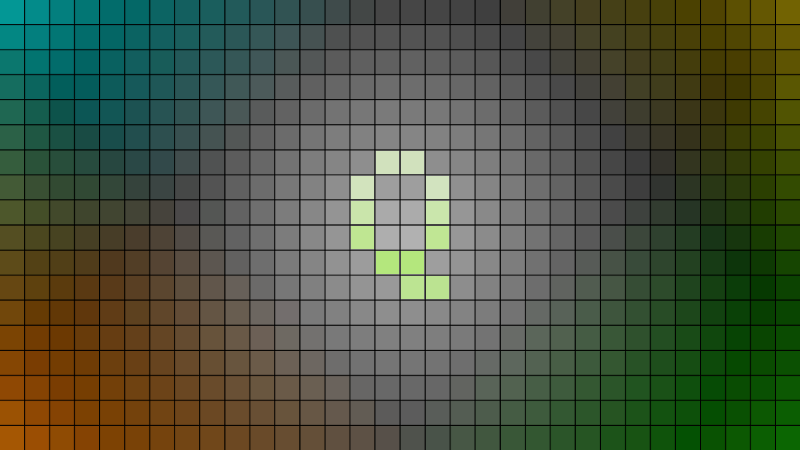
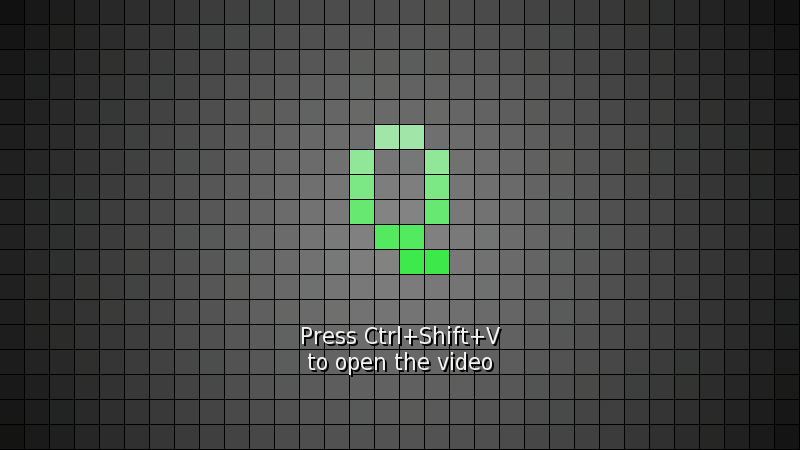
added toolbox undocking/docking and workspace centering; changelog for v0.2.0 updated
git-svn-id: svn://svn.code.sf.net/p/qgifer/code/trunk@47 8bb6e544-dc85-452e-9350-54fadf7a98b7

diff --git a/src/mainwindow.cpp b/src/mainwindow.cpp
@@ -23,6 +23,7 @@
 #include <QXmlStreamReader>
 #include <QFile>
 #include <QTextStream>
+#include <QDesktopWidget>
 #include "mainwindow.h"
 #include "objectwidget.h"
 
@@ -96,6 +97,7 @@ MainWindow::MainWindow()
      connect(player, SIGNAL(frameChanged(long)), this, SLOT(frameChanged(long)));
 
      connect(zoomSlider, SIGNAL(valueChanged(int)), this, SLOT(zoomChanged(int)));
+     connect(zoomSlider, SIGNAL(sliderReleased()), player, SLOT(centerWorkspace()));
      connect(ratioBox, SIGNAL(stateChanged(int)), this, SLOT(ratioChanged(int)));
      connect(smoothBox, SIGNAL(stateChanged(int)), this, SLOT(smoothChanged(int)));
      connect(marginBox, SIGNAL(stateChanged(int)), this, SLOT(marginBoxChanged(int)));
@@ -118,6 +120,15 @@ MainWindow::MainWindow()
      connect(player->getWorkspace(), SIGNAL(marginsChanged()), this, SLOT(marginsChanged()));
      connect(player->getWorkspace(), SIGNAL(propertiesRequested(WorkspaceObject*)),
 	     this, SLOT(showProperties(WorkspaceObject*)));
+
+     connect(toolDock, SIGNAL(topLevelChanged(bool)),
+			      this, SLOT(dockLevelChanged(bool)));
+
+     connect(actionOutputProp, SIGNAL(triggered()), this, SLOT(showOutputProp()));
+     connect(actionFilters, SIGNAL(triggered()), this, SLOT(showFilters()));
+     connect(actionMargins, SIGNAL(triggered()), this, SLOT(showMargins()));
+     connect(actionPreviewProp, SIGNAL(triggered()), this, SLOT(showPreviewProp()));
+     connect(actionUndock, SIGNAL(triggered()), this, SLOT(toggleDock()));
 
      toolBox->setMinimumWidth(270);
      loadSettings();
@@ -164,7 +175,6 @@ bool MainWindow::openVideo(const QString& path)
 {
      if(player->openSource(path))
      {
-         player->nextFrame();
 	 startBox->setMaximum(player->countFrames()-1);
 	 stopBox->setMaximum(player->countFrames()-1);
 	 multiSlider->setMaximum(player->countFrames()-1);
@@ -330,6 +340,7 @@ void MainWindow::zoomChanged(int v)
 {
      zoomLabel->setText(tr("Zoom")+" ("+QString::number(v)+"%):");
      player->getWorkspace()->setZoom((double)v/100.0);
+     //player->centerWorkspace();
      if(player->getStatus() != FramePlayer::Playing)
 	  player->seek(player->getCurrentPos());
 }
@@ -339,6 +350,7 @@ void MainWindow::ratioChanged(int s)
      player->getWorkspace()->keepAspectRatio(s == Qt::Checked);
      if(player->getStatus() != FramePlayer::Playing)
 	  player->seek(player->getCurrentPos());
+     player->centerWorkspace();
      setChanged();
 }
 
@@ -458,6 +470,11 @@ void MainWindow::lock(bool l)
      actionInsertText->setEnabled(l);
      actionInsertObject->setEnabled(l);
 
+     actionOutputProp->setEnabled(l);
+     actionPreviewProp->setEnabled(l);
+     actionMargins->setEnabled(l);
+     actionFilters->setEnabled(l);
+
      varPaletteBoxChanged(varPaletteBox->checkState());
      actionOpenPalette->setEnabled(l);
      actionSavePalette->setEnabled(l);
@@ -527,8 +544,8 @@ QImage MainWindow::finalFrame(long f)
 void MainWindow::loadSettings()
 {
      zoomSlider->setValue(set->value("zoom",100).toInt());
-     smoothBox->setChecked(set->value("smooth_preview",false).toBool());
-     ratioBox->setChecked(set->value("keep_ratio",false).toBool());
+     smoothBox->setChecked(set->value("smooth_preview",true).toBool());
+     ratioBox->setChecked(set->value("keep_ratio",true).toBool());
      switch(set->value("loop",0).toInt())
      {
      case 1: laRadio->setChecked(true);break;
@@ -543,7 +560,7 @@ void MainWindow::loadSettings()
      widthBox->setValue(set->value("output_width",320).toInt());
      heightBox->setValue(set->value("output_height",240).toInt());
      paletteBox->setValue(set->value("palette_size",10).toInt());
-     autoPaletteBox->setChecked(set->value("auto_palette",false).toBool());
+     autoPaletteBox->setChecked(set->value("auto_palette",true).toBool());
      whRatioBox->setChecked(set->value("wh_ratio",false).toBool());
      varPaletteBox->setChecked(set->value("var_palette",false).toBool());
      minDiffBox->setValue(set->value("vp_mindiff",40).toFloat());
@@ -957,6 +974,7 @@ void MainWindow::insertText()
      TextWidget* tw = new TextWidget(player);
      tw->setAttribute(Qt::WA_DeleteOnClose);
      tw->move(x()+width()*0.3, y()+height()*0.2);
+     tw->setRange(startBox->value(),stopBox->value());
      tw->show();
      setChanged();
 }
@@ -1003,6 +1021,7 @@ void MainWindow::newProject()
      projectFile.clear();
      lock(true);
      setChanged(false);
+     player->showDefaultScreen();
 }
 
 void MainWindow::openProject()
@@ -1105,4 +1124,22 @@ void MainWindow::closeEvent(QCloseEvent* e)
 	       
      }
      saveSettings();
+}
+
+void MainWindow::dockLevelChanged(bool top)
+{
+     actionUndock->setText(top ? tr("Dock &toolbox") : tr("Undock &toolbox"));
+     if(top)
+     {
+	  toolDock->resize(280,frameSize().height());
+	  QSize dsize = QApplication::desktop()->size();
+	  int space = 10;
+	  //miejsce z lewej
+	  if(x() > toolDock->width()+space)
+	       toolDock->move(x()-toolDock->width()-space, y());
+	  //miejsce z prawej
+	  else if( dsize.width()-(x()+frameSize().width()) > toolDock->width()+space )
+	       toolDock->move(x()+frameSize().width()+space, y());
+     }
+
 }

diff --git a/src/frameplayer.cpp b/src/frameplayer.cpp
@@ -26,10 +26,10 @@ FramePlayer::FramePlayer(QWidget* parent):QWidget(parent),frames(0),originalSize
 {
      setupUi(this);
      workspace = new Workspace(frame);
-     // QPixmap def(800,450);
-     // def.fill(Qt::black);
+     // QPixmap def(1,1);
+     // def.fill(Qt::transparent);
      // defaultImg = def.toImage();
-     //defaultImg = QImage(":/res/playerdefault.png");
+     defaultImg = QImage(":/res/playerdefault.png");
      connect(playButton, SIGNAL(clicked()), this, SLOT(play()));
      connect(stopButton, SIGNAL(clicked()), this, SLOT(stop()));
      connect(pauseButton, SIGNAL(clicked()), this, SLOT(pause()));
@@ -87,6 +87,8 @@ bool FramePlayer::openSource(const QString& src)
      slider->setMaximum(countFrames()-1);
      //updateSlider(0);
      slider->setValue(0);
+     nextFrame();
+     centerWorkspace();
      return true;
 }
 
@@ -271,8 +273,12 @@ void FramePlayer::updateStatus(Status s)
 void FramePlayer::resizeEvent(QResizeEvent*)
 {
      //qDebug() << "player resize event";
-     workspace->setImage(currentFrame,frame->size());
+     if(countFrames())
+	  workspace->setImage(currentFrame,frame->size());
+     else
+	  showDefaultScreen();
      workspace->setFixedSize(size());
+     centerWorkspace();
 }
 
 void FramePlayer::setStatusBar(QStatusBar* sb)
@@ -288,4 +294,11 @@ QString FramePlayer::codecName()
      int ex = static_cast<int>(vcap.get(CV_CAP_PROP_FOURCC));
      char EXT[] = {(char)(ex & 0XFF) , (char)((ex & 0XFF00) >> 8),(char)((ex & 0XFF0000) >> 16),(char)((ex & 0XFF000000) >> 24), 0};
      return QString(EXT);
+}
+
+void FramePlayer::centerWorkspace()
+{
+workspace->move(
+     (frame->width()*workspace->getZoom()-workspace->getImage()->width())/2, 
+     (frame->height()*workspace->getZoom()-workspace->getImage()->height())/2);
 }

diff --git a/src/previewwidget.h b/src/previewwidget.h
@@ -35,7 +35,8 @@ class PreviewWidget : public QWidget
 public:
      PreviewWidget(QWidget* parent=0, Qt::WindowFlags f=0);
      virtual ~PreviewWidget();
-     void setImage(const QImage& img, const QSize& size = QSize(0,0));
+     void setImage(const QImage& img, const QSize& size = QSize(0,0), 
+		   bool forceRatio = false, bool forceSmooth = false);
      virtual QImage* getImage() {return &image;}
      const QPoint* getCursorPos() const {return underMouse() ? &cpos : NULL;}
      const double normalizedX() const 
@@ -46,6 +47,7 @@ public:
      virtual void clear();
      void keepAspectRatio(bool keep){ratio = keep;}
      void setZoom(double z) {zoom = z;}
+     double getZoom() const {return zoom;}
      static void applyCorrection(QImage* img, int h, int s, int v, bool toRGB888 = true);
 protected:
      virtual void paintEvent(QPaintEvent*);

diff --git a/src/frameplayer.h b/src/frameplayer.h
@@ -90,10 +90,11 @@ public:
      {workspace->enableAntialiasing(enable);workspace->setImage(currentFrame,frame->size());}
      QString codecName();
      void showDefaultScreen()
-     {currentFrame = defaultImg;workspace->setImage(defaultImg.scaled(frame->size()));}
+     {currentFrame = defaultImg; workspace->setImage(defaultImg, frame->size(), true, true);
+	  centerWorkspace();}
      Workspace* getWorkspace() {return workspace;}
      void setMedianBlur(int m){medianblur = m;}
-     
+
 private:
      VideoCapture vcap;
      int medianblur;
@@ -123,6 +124,7 @@ public slots:
      void close();
      void setInterval(int i){interval=i;if(status==Playing){pause();play();}}
      void setFps(double f){ setInterval(1000/f);}
+     void centerWorkspace();
 signals:
      void frameChanged(long);
      void statusUpdated(FramePlayer::Status status);

diff --git a/src/previewwidget.cpp b/src/previewwidget.cpp
@@ -32,7 +32,8 @@ PreviewWidget::~PreviewWidget()
      qDebug() << "preview destroyed...";
 }
 
-void PreviewWidget::setImage(const QImage& img, const QSize& size)
+void PreviewWidget::setImage(const QImage& img, const QSize& size, 
+			     bool forceRatio, bool forceSmooth)
 {
      if(img.isNull())
 	  return;
@@ -52,8 +53,8 @@ void PreviewWidget::setImage(const QImage& img, const QSize& size)
      // else
      // {
 	  image = image.scaled(
-	       imsize*zoom, ratio ? Qt::KeepAspectRatio : Qt::IgnoreAspectRatio, (
-		    smooth ? Qt::SmoothTransformation : Qt::FastTransformation));
+	       imsize*zoom, (ratio || forceRatio) ? Qt::KeepAspectRatio : Qt::IgnoreAspectRatio, (
+		    (smooth || forceSmooth) ? Qt::SmoothTransformation : Qt::FastTransformation));
       	  //setFixedSize(imsize);
      // }
 	  update();

diff --git a/src/workspace.cpp b/src/workspace.cpp
@@ -392,6 +392,9 @@ void Workspace::execObjectMenu(const QPoint& p)
 	  posM->addAction(ffPos);
 	  QAction* efPos = new QAction(tr("Apply to the &earlier frames"),posM);
 	  posM->addAction(efPos);
+	  posM->addSeparator();
+	  QAction* interpPos = new QAction(tr("&Interpolate..."),posM);
+	  posM->addAction(interpPos);
 	  m->addMenu(posM);
 
 	  QMenu* sizeM = new QMenu(tr("&Size"),m);
@@ -401,6 +404,9 @@ void Workspace::execObjectMenu(const QPoint& p)
 	  sizeM->addAction(efSize);
 	  QAction* resetSize = new QAction(tr("&Restore original size"),sizeM);
 	  sizeM->addAction(resetSize);
+	  sizeM->addSeparator();
+	  QAction* interpSize = new QAction(tr("&Interpolate..."),sizeM);
+	  sizeM->addAction(interpSize);
 	  m->addMenu(sizeM);
 
 	  m->addSeparator();

diff --git a/src/mainwindow.h b/src/mainwindow.h
@@ -104,6 +104,14 @@ private:
 	  void saveProject(const QString& file);
 	  void saveProjectAs();
 	  void setChanged(bool c = true);
+	  void dockLevelChanged(bool top);
+
+	  //view
+	  void showOutputProp(){toolBox->setCurrentIndex(3);}
+	  void showPreviewProp(){toolBox->setCurrentIndex(0);}
+	  void showFilters(){toolBox->setCurrentIndex(2);}
+	  void showMargins(){toolBox->setCurrentIndex(1);}
+	  void toggleDock(){toolDock->setFloating(!toolDock->isFloating());}
 };
 
 #endif
